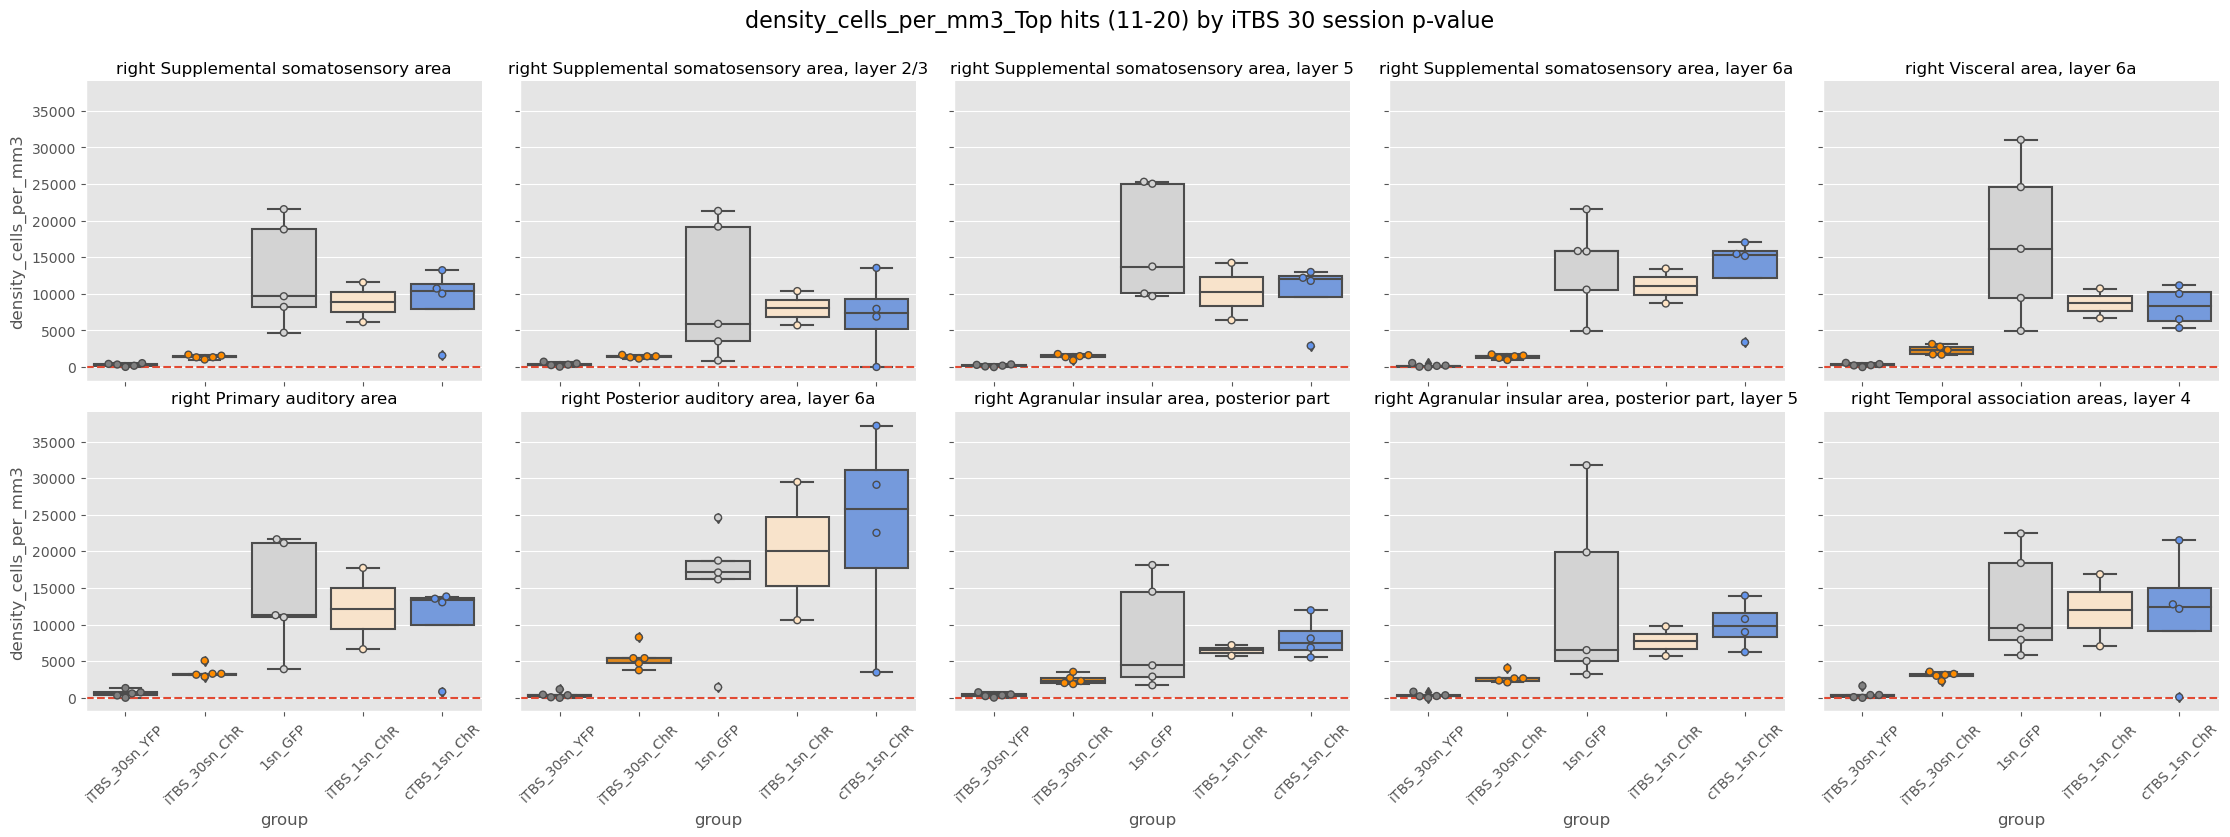
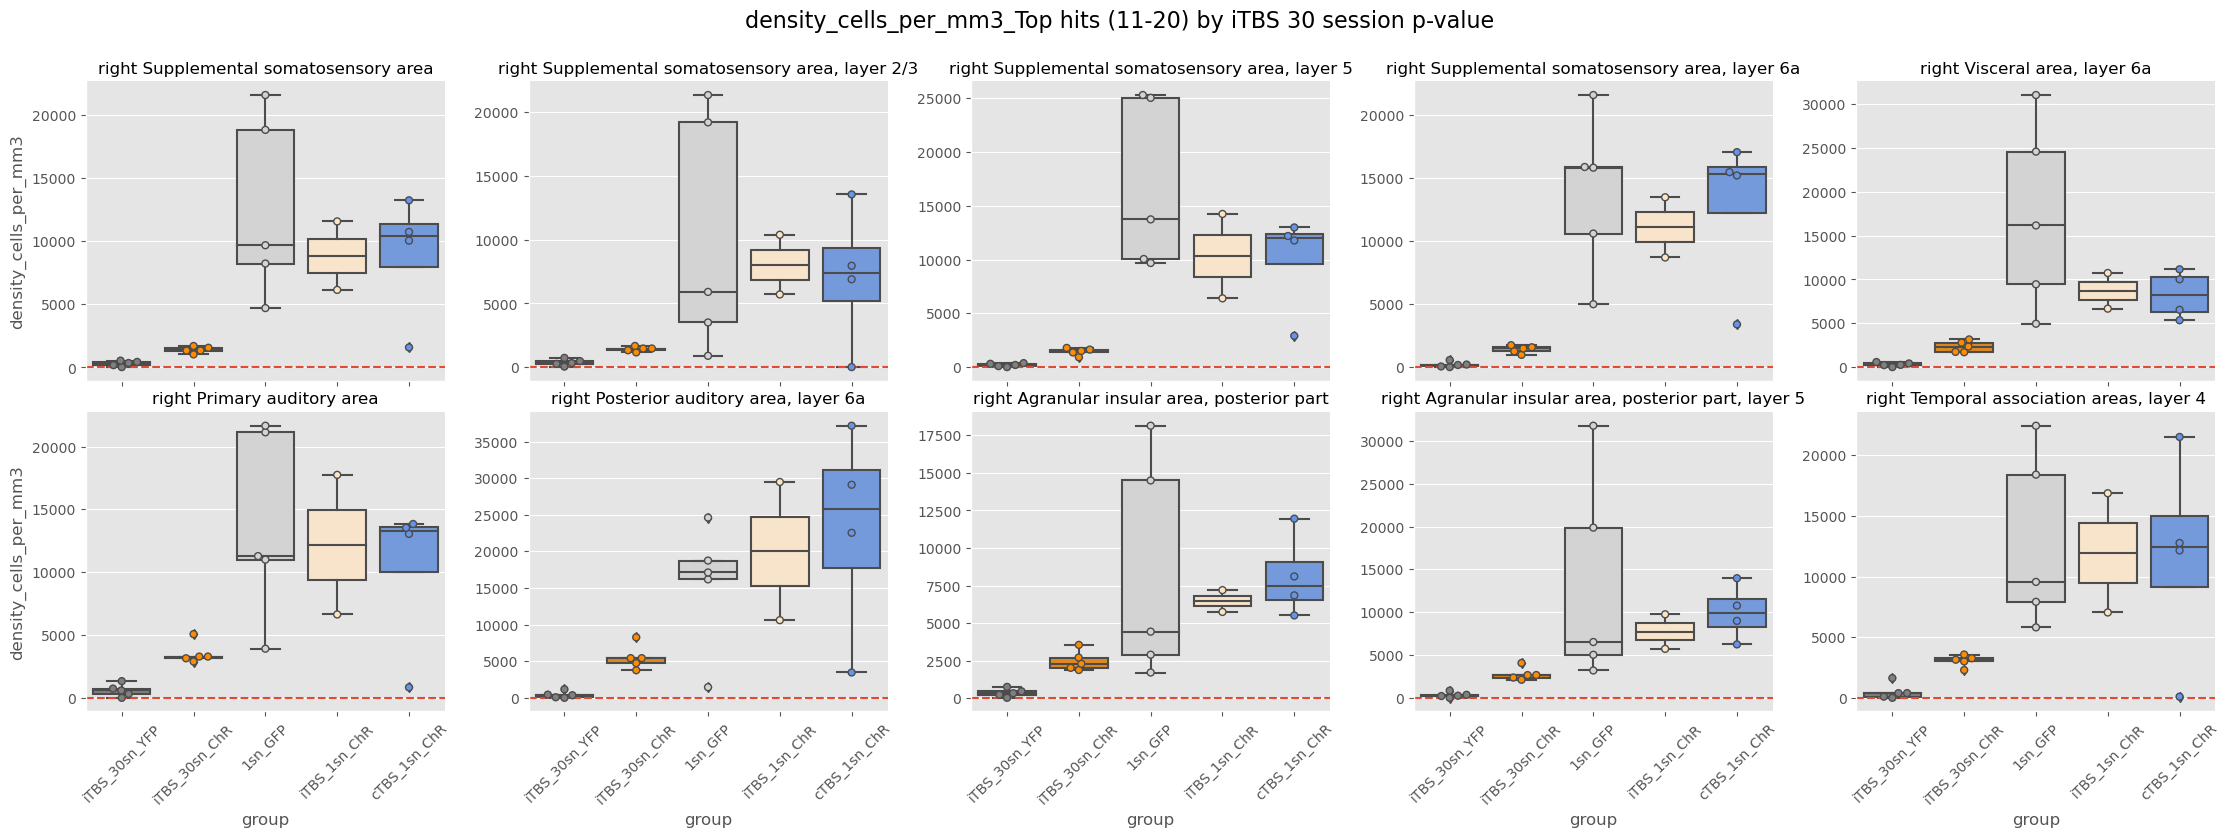
Modified the boxplot function so that each panel has its own Y axis limits so that it's  easier to appreciate the differences between groups

diff --git a/scripts/gather_cfos_data.py b/scripts/gather_cfos_data.py
@@ -153,7 +153,7 @@ def boxplot_multi(cfos_vrt_collapse, y_data, plot_label, labels, palette, save_p
         labels = [labels]
     cfos_vrt_collapse_sub = cfos_vrt_collapse[cfos_vrt_collapse["name"].isin(labels)]
     # sns.set_style("white")
-    g = sns.FacetGrid(cfos_vrt_collapse_sub, col="name", col_wrap=5, legend_out=True, height=4.5, aspect=1)
+    g = sns.FacetGrid(cfos_vrt_collapse_sub, col="name", col_wrap=5, legend_out=True, height=4.5, aspect=1, sharey=False)
     plt.style.use('ggplot')
     g.map(sns.boxplot, "group", y_data, order=order, palette=palette)
     g.map(sns.swarmplot, "group", y_data, order=order, edgecolor="gray", linewidth=1, palette=palette)
